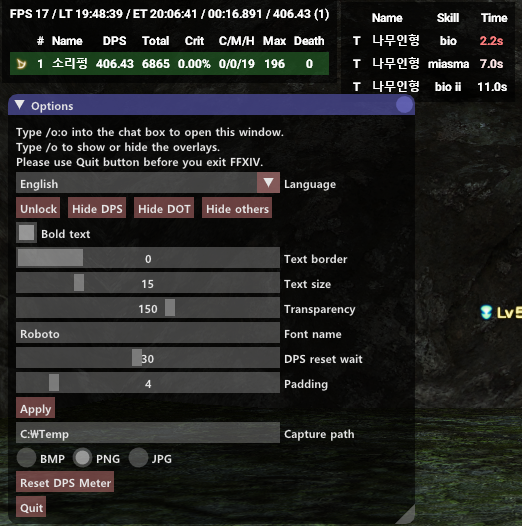
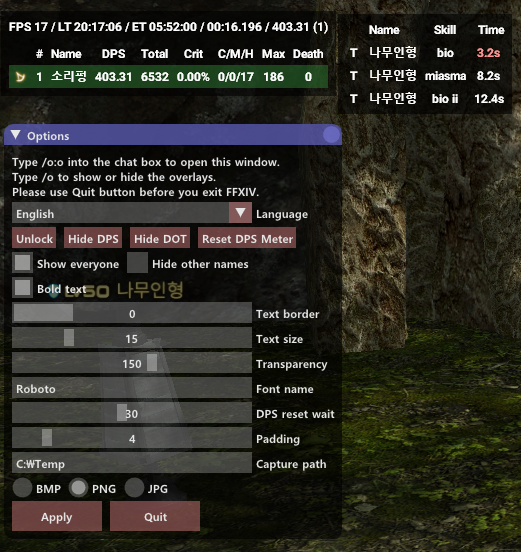
Fixed nonsense text

diff --git a/FFXIVDLL/ImGuiConfigWindow.cpp b/FFXIVDLL/ImGuiConfigWindow.cpp
@@ -57,7 +57,8 @@ ImGuiConfigWindow::ImGuiConfigWindow(FFXIVDLL *dll, OverlayRenderer *renderer) :
 	dll->process()->wDPS.visible = readIni(L"DPSMeter", L"Visible", 1, 0, 1);
 	dll->process()->wDPS.xF = readIni(L"DPSMeter", L"x", 0.1f, 0.f, 1.f);
 	dll->process()->wDPS.yF = readIni(L"DPSMeter", L"y", 0.1f, 0.f, 1.f);
-	UseDrawOverlayEveryone = readIni(L"DPSMeter", L"ShowEveryone", 1, 0, 1);
+	ShowEveryDPS = readIni(L"DPSMeter", L"ShowEveryone", 1, 0, 1);
+	hideOtherUserName = readIni(L"DPSMeter", L"HideOtherUserName", 0, 0, 1);
 	combatResetTime = readIni(L"DPSMeter", L"CombatResetTime", 10, 5, 60);
 
 	char buf[8192];
@@ -109,7 +110,8 @@ ImGuiConfigWindow::~ImGuiConfigWindow() {
 	writeIni(L"DPSMeter", L"Visible", dll->process()->wDPS.visible);
 	writeIni(L"DPSMeter", L"x", dll->process()->wDPS.xF);
 	writeIni(L"DPSMeter", L"y", dll->process()->wDPS.yF);
-	writeIni(L"DPSMeter", L"ShowEveryone", UseDrawOverlayEveryone);
+	writeIni(L"DPSMeter", L"ShowEveryone", ShowEveryDPS);
+	writeIni(L"DPSMeter", L"HideOtherUserName", hideOtherUserName);
 	writeIni(L"DPSMeter", L"CombatResetTime", combatResetTime);
 
 	writeIni(L"DOT", L"Contagion", dll->process()->mContagionApplyDelayEstimation.save().c_str());
@@ -175,7 +177,7 @@ void ImGuiConfigWindow::Render() {
 	if (mConfigVisibility) {
 		ImGui::GetStyle().Colors[ImGuiCol_WindowBg] = ImVec4(0, 0, 0, transparency/255.f);
 		ImGui::SetNextWindowSize(ImVec2(320, 240), ImGuiSetCond_FirstUseEver);
-		ImGui::Begin(Languages::get("OPTION_WINDOW_TITLE"), &mConfigVisibility);
+		ImGui::Begin(Languages::get("OPTION_WINDOW_TITLE"), &mConfigVisibility, ImGuiWindowFlags_AlwaysAutoResize);
 
 		ImGui::Text(Languages::get("OPTION_HOWTO_OPEN"));
 
@@ -193,9 +195,12 @@ void ImGuiConfigWindow::Render() {
 		if (ImGui::Button(dll->process()->wDOT.visible ? Languages::get("OPTION_DOT_HIDE") : Languages::get("OPTION_DOT_SHOW"))) {
 			dll->process()->wDOT.toggleVisibility();
 		} ImGui::SameLine();
-		if (ImGui::Button(hideOtherUser ? Languages::get("OPTION_OTHERS_SHOW") : Languages::get("OPTION_OTHERS_HIDE"))) {
-			hideOtherUser = !hideOtherUser;
+		if (ImGui::Button(Languages::get("OPTION_DPS_RESET"))) {
+			dll->process()->ResetMeter();
 		}
+		ImGui::Checkbox(Languages::get("OPTION_OTHERS_SHOW"), &ShowEveryDPS); ImGui::SameLine();
+		ImGui::Checkbox(Languages::get("OPTION_OTHERS_HIDE_NAME"), &hideOtherUserName);
+
 		ImGui::Checkbox(Languages::get("OPTION_FONT_BOLD"), &bold);
 		ImGui::SliderInt(Languages::get("OPTION_TEXT_BORDER"), &border, 0, 3);
 		ImGui::SliderInt(Languages::get("OPTION_FONT_SIZE"), &fontSize, 9, 36);
@@ -203,7 +208,14 @@ void ImGuiConfigWindow::Render() {
 		ImGui::InputText(Languages::get("OPTION_FONT_NAME"), fontName, sizeof(fontName));
 		ImGui::SliderInt(Languages::get("OPTION_DPS_RESET_TIME"), &combatResetTime, 5, 60);
 		ImGui::SliderInt(Languages::get("OPTION_METER_PADDING"), &padding, 0, 32);
-		if (ImGui::Button(Languages::get("OPTION_APPLY"))) {
+		ImGui::InputText(Languages::get("OPTION_CAPTURE_PATH"), capturePath, sizeof(capturePath));
+		ImGui::RadioButton("BMP", &captureFormat, D3DXIFF_BMP);
+		ImGui::SameLine();
+		ImGui::RadioButton("PNG", &captureFormat, D3DXIFF_PNG);
+		ImGui::SameLine();
+		ImGui::RadioButton("JPG", &captureFormat, D3DXIFF_JPG);
+		ImGui::PushItemWidth(-1);
+		if (ImGui::Button(Languages::get("OPTION_APPLY"), ImVec2(90, 30))) {
 			dll->process()->wDPS.setTransparency(transparency);
 			dll->process()->wDOT.setTransparency(transparency);
 			dll->process()->wDPS.setPaddingRecursive(padding);
@@ -215,19 +227,11 @@ void ImGuiConfigWindow::Render() {
 			}
 			mRenderer->ReloadFromConfig();
 			dll->process()->ReloadLocalization();
-		}
-		ImGui::InputText(Languages::get("OPTION_CAPTURE_PATH"), capturePath, sizeof(capturePath));
-		ImGui::RadioButton("BMP", &captureFormat, D3DXIFF_BMP);
-		ImGui::SameLine();
-		ImGui::RadioButton("PNG", &captureFormat, D3DXIFF_PNG);
-		ImGui::SameLine();
-		ImGui::RadioButton("JPG", &captureFormat, D3DXIFF_JPG);
-		if (ImGui::Button(Languages::get("OPTION_DPS_RESET"))) {
-			dll->process()->ResetMeter();
-		}
-		if (ImGui::Button(Languages::get("OPTION_QUIT"))) {
+		}ImGui::SameLine();
+		if (ImGui::Button(Languages::get("OPTION_QUIT"), ImVec2(90,30))) {
 			dll->spawnSelfUnloader();
 		}
+		ImGui::PopItemWidth();
 		ImGui::End();
 	}
 }

diff --git a/FFXIVDLL/Languages.cpp b/FFXIVDLL/Languages.cpp
@@ -38,8 +38,8 @@ namespace Languages {
 		loc[LANGUAGE_ENGLISH]["OPTION_DPS_SHOW"] = "Show DPS";
 		loc[LANGUAGE_ENGLISH]["OPTION_DOT_HIDE"] = "Hide DOT";
 		loc[LANGUAGE_ENGLISH]["OPTION_DOT_SHOW"] = "Show DOT";
-		loc[LANGUAGE_ENGLISH]["OPTION_OTHERS_HIDE"] = "Hide others";
-		loc[LANGUAGE_ENGLISH]["OPTION_OTHERS_SHOW"] = "Show others";
+		loc[LANGUAGE_ENGLISH]["OPTION_OTHERS_HIDE_NAME"] = "Hide other names";
+		loc[LANGUAGE_ENGLISH]["OPTION_OTHERS_SHOW"] = "Show everyone";
 		loc[LANGUAGE_ENGLISH]["OPTION_FONT_BOLD"] = "Bold text";
 		loc[LANGUAGE_ENGLISH]["OPTION_FONT_SIZE"] = "Text size";
 		loc[LANGUAGE_ENGLISH]["OPTION_FONT_NAME"] = "Font name";
@@ -71,8 +71,8 @@ namespace Languages {
 		loc[LANGUAGE_KOREAN]["OPTION_DPS_SHOW"] = u8"DPS 보이기";
 		loc[LANGUAGE_KOREAN]["OPTION_DOT_HIDE"] = u8"DOT 숨기기";
 		loc[LANGUAGE_KOREAN]["OPTION_DOT_SHOW"] = u8"DOT 보이기";
-		loc[LANGUAGE_KOREAN]["OPTION_OTHERS_HIDE"] = u8"타인 숨기기";
-		loc[LANGUAGE_KOREAN]["OPTION_OTHERS_SHOW"] = u8"타인 보이기";
+		loc[LANGUAGE_KOREAN]["OPTION_OTHERS_HIDE_NAME"] = u8"다른 이름 숨기기";
+		loc[LANGUAGE_KOREAN]["OPTION_OTHERS_SHOW"] = u8"모두 보이기";
 		loc[LANGUAGE_KOREAN]["OPTION_FONT_BOLD"] = u8"굵은 글자";
 		loc[LANGUAGE_KOREAN]["OPTION_FONT_SIZE"] = u8"글자 크기";
 		loc[LANGUAGE_KOREAN]["OPTION_FONT_NAME"] = u8"서체 이름";

diff --git a/FFXIVDLL/OverlayRenderer.cpp b/FFXIVDLL/OverlayRenderer.cpp
@@ -97,11 +97,11 @@ void OverlayRenderer::OnResetDevice() {
 	D3DXCreateFont(pDevice, mConfig.fontSize, 0, (mConfig.bold ? FW_BOLD : 0), 0, FALSE, DEFAULT_CHARSET, OUT_DEFAULT_PRECIS, ANTIALIASED_QUALITY, DEFAULT_PITCH | FF_DONTCARE, fn, &mFont);
 }
 
-void OverlayRenderer::SetHideOtherUser() {
-	mConfig.hideOtherUser = !mConfig.hideOtherUser;
+void OverlayRenderer::SetHideOtherUserName() {
+	mConfig.hideOtherUserName = !mConfig.hideOtherUserName;
 }
-int OverlayRenderer::GetHideOtherUser() {
-	return mConfig.hideOtherUser;
+int OverlayRenderer::GetHideOtherUserName() {
+	return mConfig.hideOtherUserName;
 }
 
 int OverlayRenderer::GetFPS() {
@@ -115,10 +115,10 @@ int OverlayRenderer::GetUseDrawOverlay() {
 }
 
 void OverlayRenderer::SetUseDrawOverlayEveryone(bool b) {
-	mConfig.UseDrawOverlayEveryone = b;
+	mConfig.ShowEveryDPS = b;
 }
 int OverlayRenderer::GetUseDrawOverlayEveryone() {
-	return mConfig.UseDrawOverlayEveryone;
+	return mConfig.ShowEveryDPS;
 }
 
 OverlayRenderer::Control* OverlayRenderer::GetRoot() {

diff --git a/FFXIVDLL/GameDataProcess.cpp b/FFXIVDLL/GameDataProcess.cpp
@@ -408,7 +408,7 @@ void GameDataProcess::UpdateOverlayMessage() {
 					swprintf(tmp, sizeof (tmp) / sizeof (tmp[0]), L"%d", i);
 					wRow.addChild(new OverlayRenderer::Control(tmp, CONTROL_TEXT_STRING, DT_CENTER));
 
-					if (dll->hooks()->GetOverlayRenderer()->GetHideOtherUser() && it->first != mSelfId)
+					if (dll->hooks()->GetOverlayRenderer()->GetHideOtherUserName() && it->first != mSelfId)
 						wcscpy(tmp, L"...");
 					else {
 						MultiByteToWideChar(CP_UTF8, 0, mActorInfo[it->first].name.c_str(), -1, tmp, sizeof(tmp) / sizeof(TCHAR));

diff --git a/FFXIVDLL/ImGuiConfigWindow.h b/FFXIVDLL/ImGuiConfigWindow.h
@@ -26,14 +26,14 @@ private:
 public:
 
 	int UseDrawOverlay = true;
-	int UseDrawOverlayEveryone = true;
+	bool ShowEveryDPS = true;
 	int fontSize = 17;
 	int fontSize_old = 17;
 	bool bold = true;
 	int border = 2;
 	int transparency = 100;
 	int padding = 4;
-	int hideOtherUser = 0;
+	bool hideOtherUserName = 0;
 	char capturePath[512] = "";
 	int captureFormat = D3DXIFF_BMP;
 	char fontName[512] = "Segoe UI";

diff --git a/FFXIVDLL/OverlayRenderer.h b/FFXIVDLL/OverlayRenderer.h
@@ -181,8 +181,8 @@ public:
 	void SetUseDrawOverlayEveryone(bool use);
 	int GetUseDrawOverlayEveryone();
 	void GetCaptureFormat(int format);
-	int GetHideOtherUser();
-	void SetHideOtherUser();
+	int GetHideOtherUserName();
+	void SetHideOtherUserName();
 
 	void AddWindow(Control *windows);
 	Control* GetRoot();
